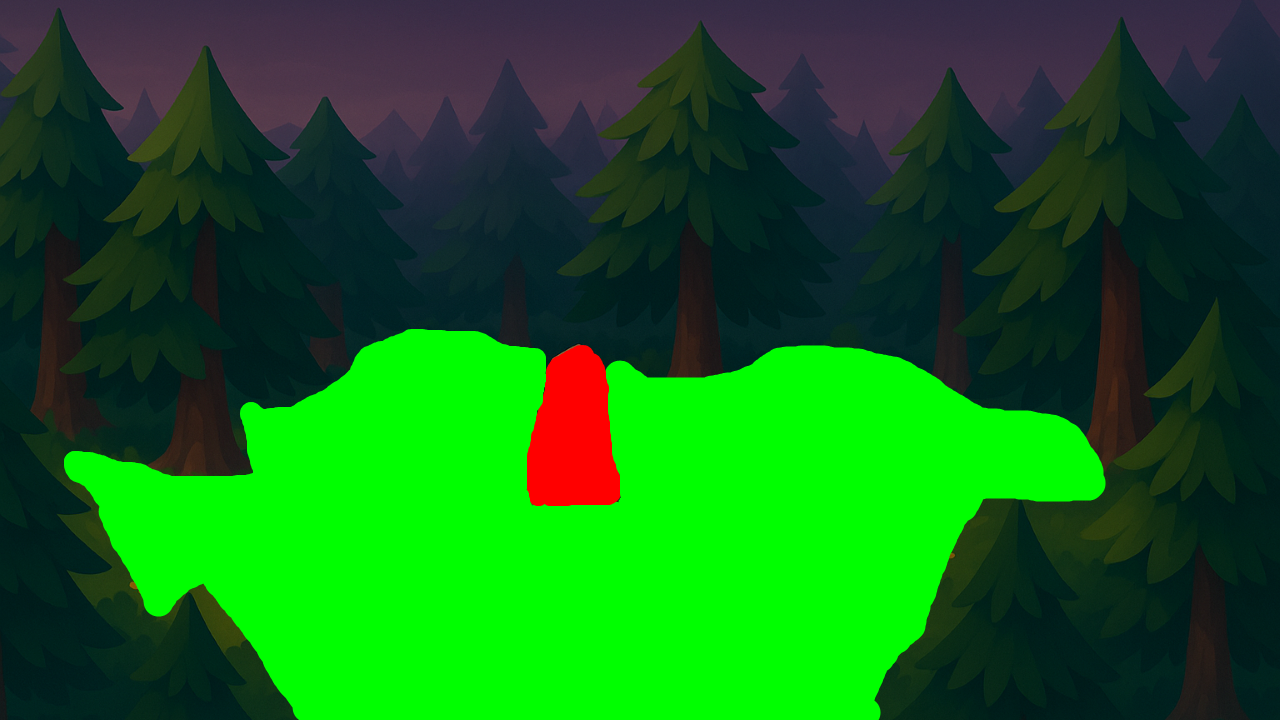
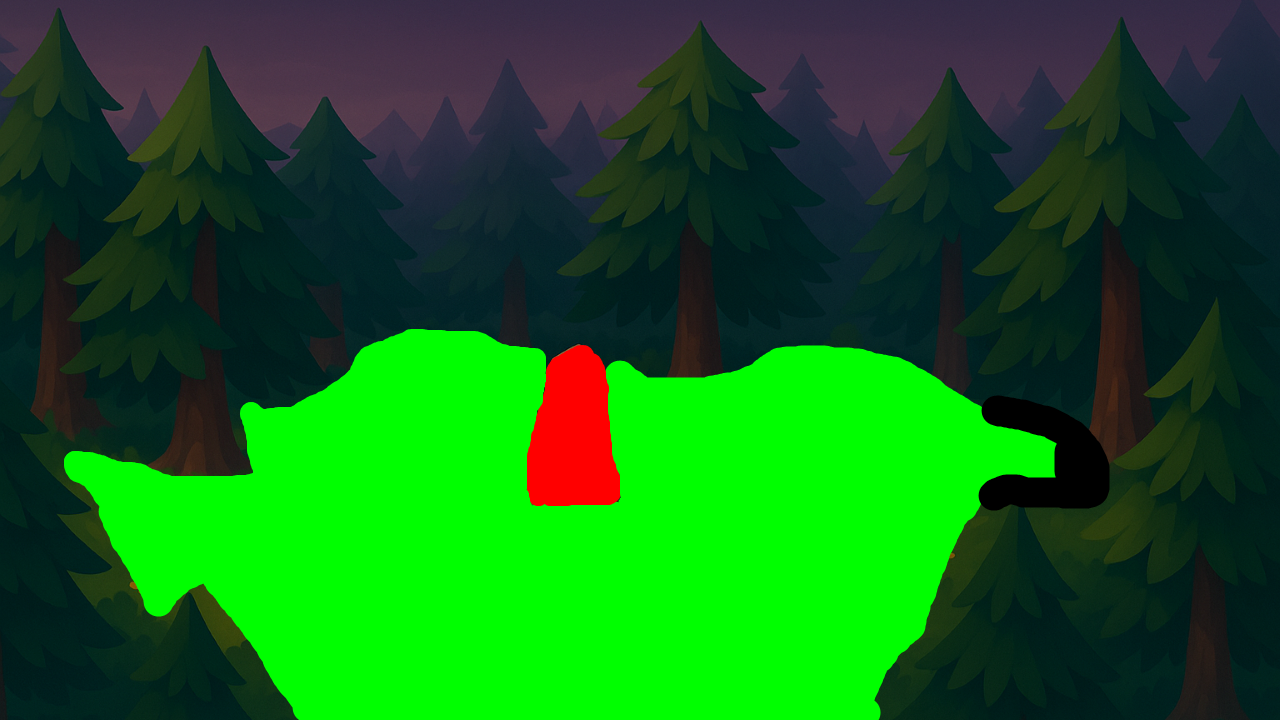
add black area in mask to avoid sprties standing infront of whisp

Changed region(s): [[0.75, 0.55, 0.875, 0.7333]]

diff --git a/js/scenes/Scene1_Meadow.js b/js/scenes/Scene1_Meadow.js
@@ -3,6 +3,7 @@
 import GameScene from './GameScene.js';
 import Wisp from '../entities/Wisp.js';
 import DialogOverlay from '../systems/DialogOverlay.js';
+import SpeechBubble from '../entities/SpeechBubble.js'; 
 
 class Scene1_Meadow extends GameScene {
     constructor() {
@@ -19,6 +20,10 @@ class Scene1_Meadow extends GameScene {
         this.lastHoverSparkTime = 0;
         this.lastHoverX = null;
         this.lastHoverY = null;
+
+        //Whisp dialog check
+        this.wispConversationActive = false;
+        this.wispIntroBubble = null;
     }
 
     createSceneContent() {
@@ -27,17 +32,49 @@ class Scene1_Meadow extends GameScene {
         // Create wisp at specified position
         this.wisp = new Wisp(this, 1075, 500);
         this.wisp.onClick(() => {
-            // Tillfällig lösning: direkt transition till scen 2
-            this.cameras.main.fadeOut(500, 0, 0, 0);
-            this.time.delayedCall(500, () => {
-                this.scene.start('Scene2_Crossroads', {
-                    entry: 'from_meadow'
-                });
-            });
+            this.handleWispClick();
         });
 
         // Hover-effekt över runstenen
         this.setupRunestoneHoverHighlight();
+    }
+
+    handleWispClick() {
+        // Blockera om annat dialogläge är aktivt
+        if (this.dialogActive || this.wispConversationActive) {
+            return;
+        }
+
+        this.wispConversationActive = true;
+
+        // Hitta en gångbar punkt nära wispen (grönt i masken)
+        let target = null;
+        if (this.wisp && this.wisp.sprite) {
+            target = this.findNearestWalkable(this.wisp.sprite.x, this.wisp.sprite.y, 80);
+        }
+
+        if (target) {
+            // Starta pathfinding mot platsen vid wispen
+            this.findPath(this.player.x, this.player.y, target.x, target.y);
+        } else {
+            console.warn('[Scene1_Meadow] Hittade ingen gångbar punkt nära wispen');
+        }
+
+        // Städa ev. tidigare bubbla
+        if (this.wispIntroBubble) {
+            this.wispIntroBubble.destroy();
+            this.wispIntroBubble = null;
+        }
+
+        // Skapa bubbla på playern som följer med när de går
+        this.wispIntroBubble = new SpeechBubble(
+            this,
+            this.player.x,
+            this.player.y,
+            'Vad är detta? Verkar som att den vill säga något.',
+            null,          // null = ingen auto-destroy, styrs av klick
+            this.player    // followTarget → behåller samma placeringslogik + svans mot player
+        );
     }
 
     findNearestWalkable(targetX, targetY, maxRadius = 150) {

diff --git a/js/scenes/Scene2_Crossroads.js b/js/scenes/Scene2_Crossroads.js
@@ -18,7 +18,7 @@ class Scene2_Crossroads extends GameScene {
      */
     getSpawnPoint(entryTag) {
         const spawns = {
-            from_meadow: { x: 570, y: 640 },
+            from_meadow: { x: 570, y: 660 },
             default:     { x: 610, y: 690 }
         };
 
